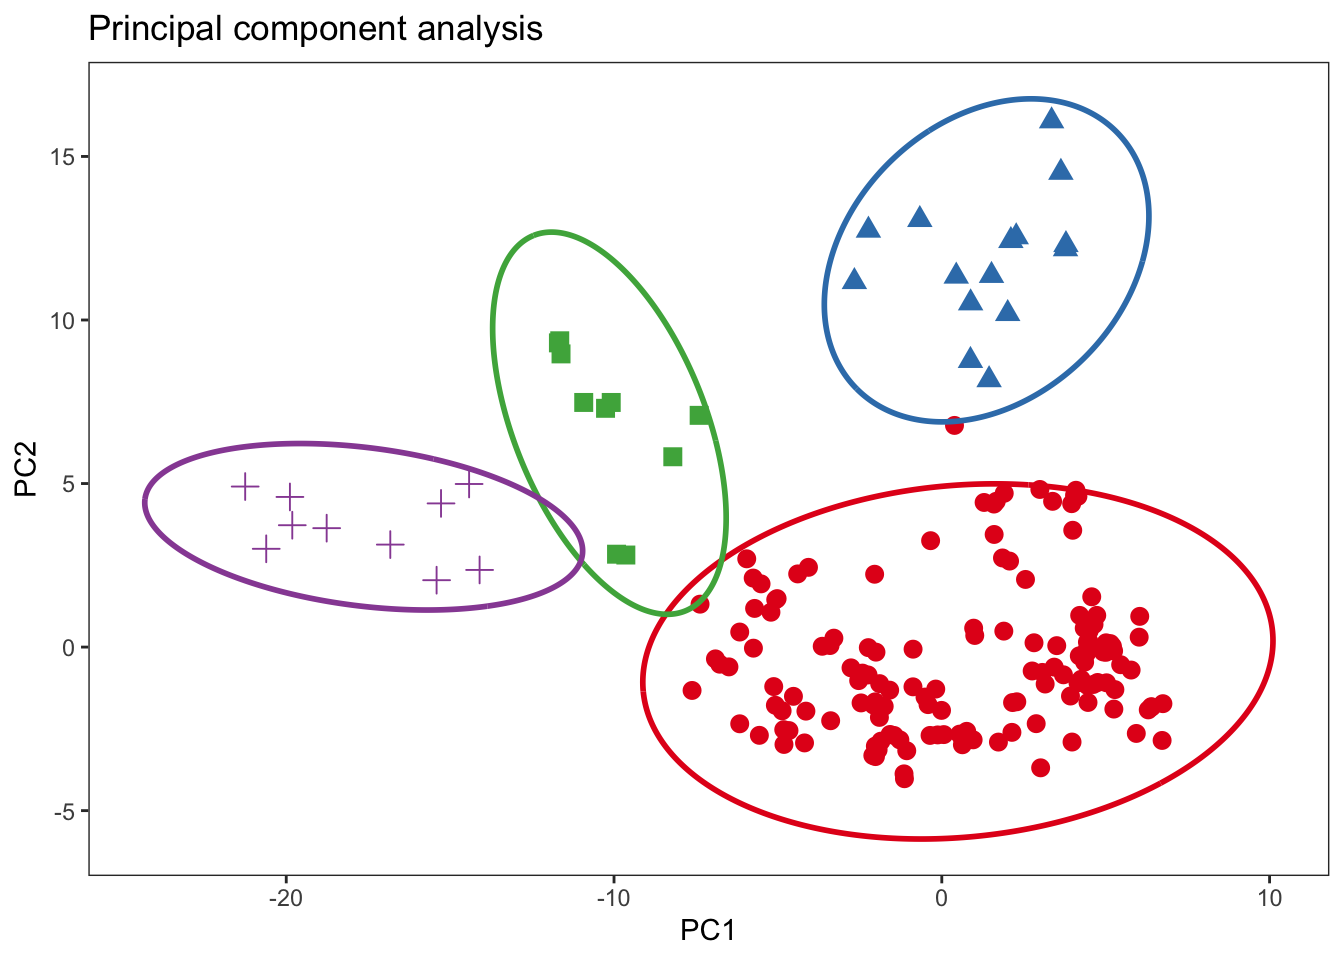
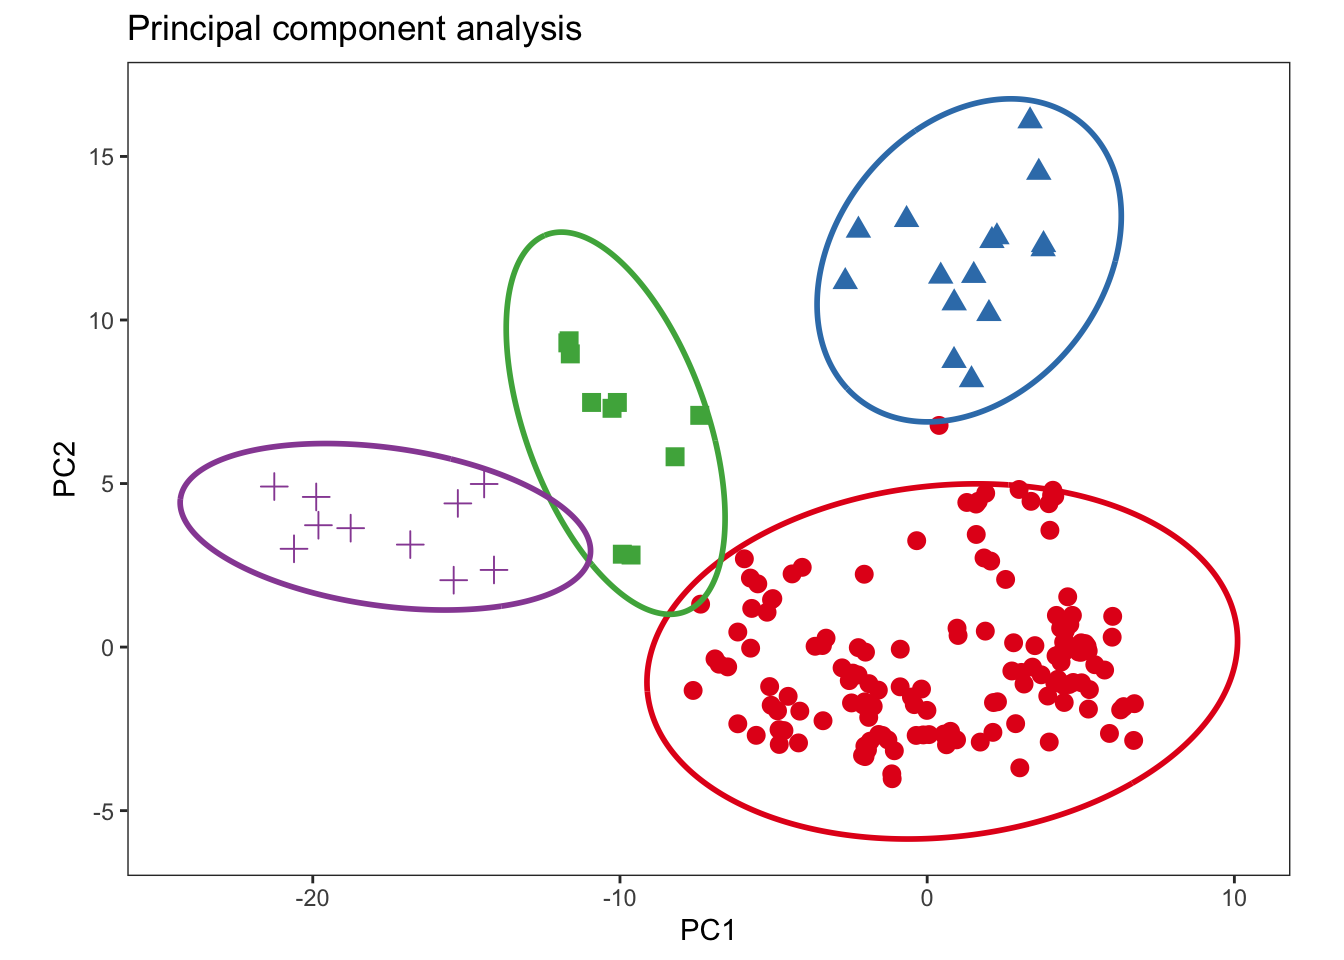
Updates

diff --git a/README.md b/README.md
@@ -209,6 +209,7 @@ ggplot() +
   labs(x = "PC1", y = "PC2", title = "Principal component analysis") +
   theme_bw() +
   theme(
+    aspect.ratio = .7,
     panel.grid = element_blank(),
     legend.position = "none"
     )
